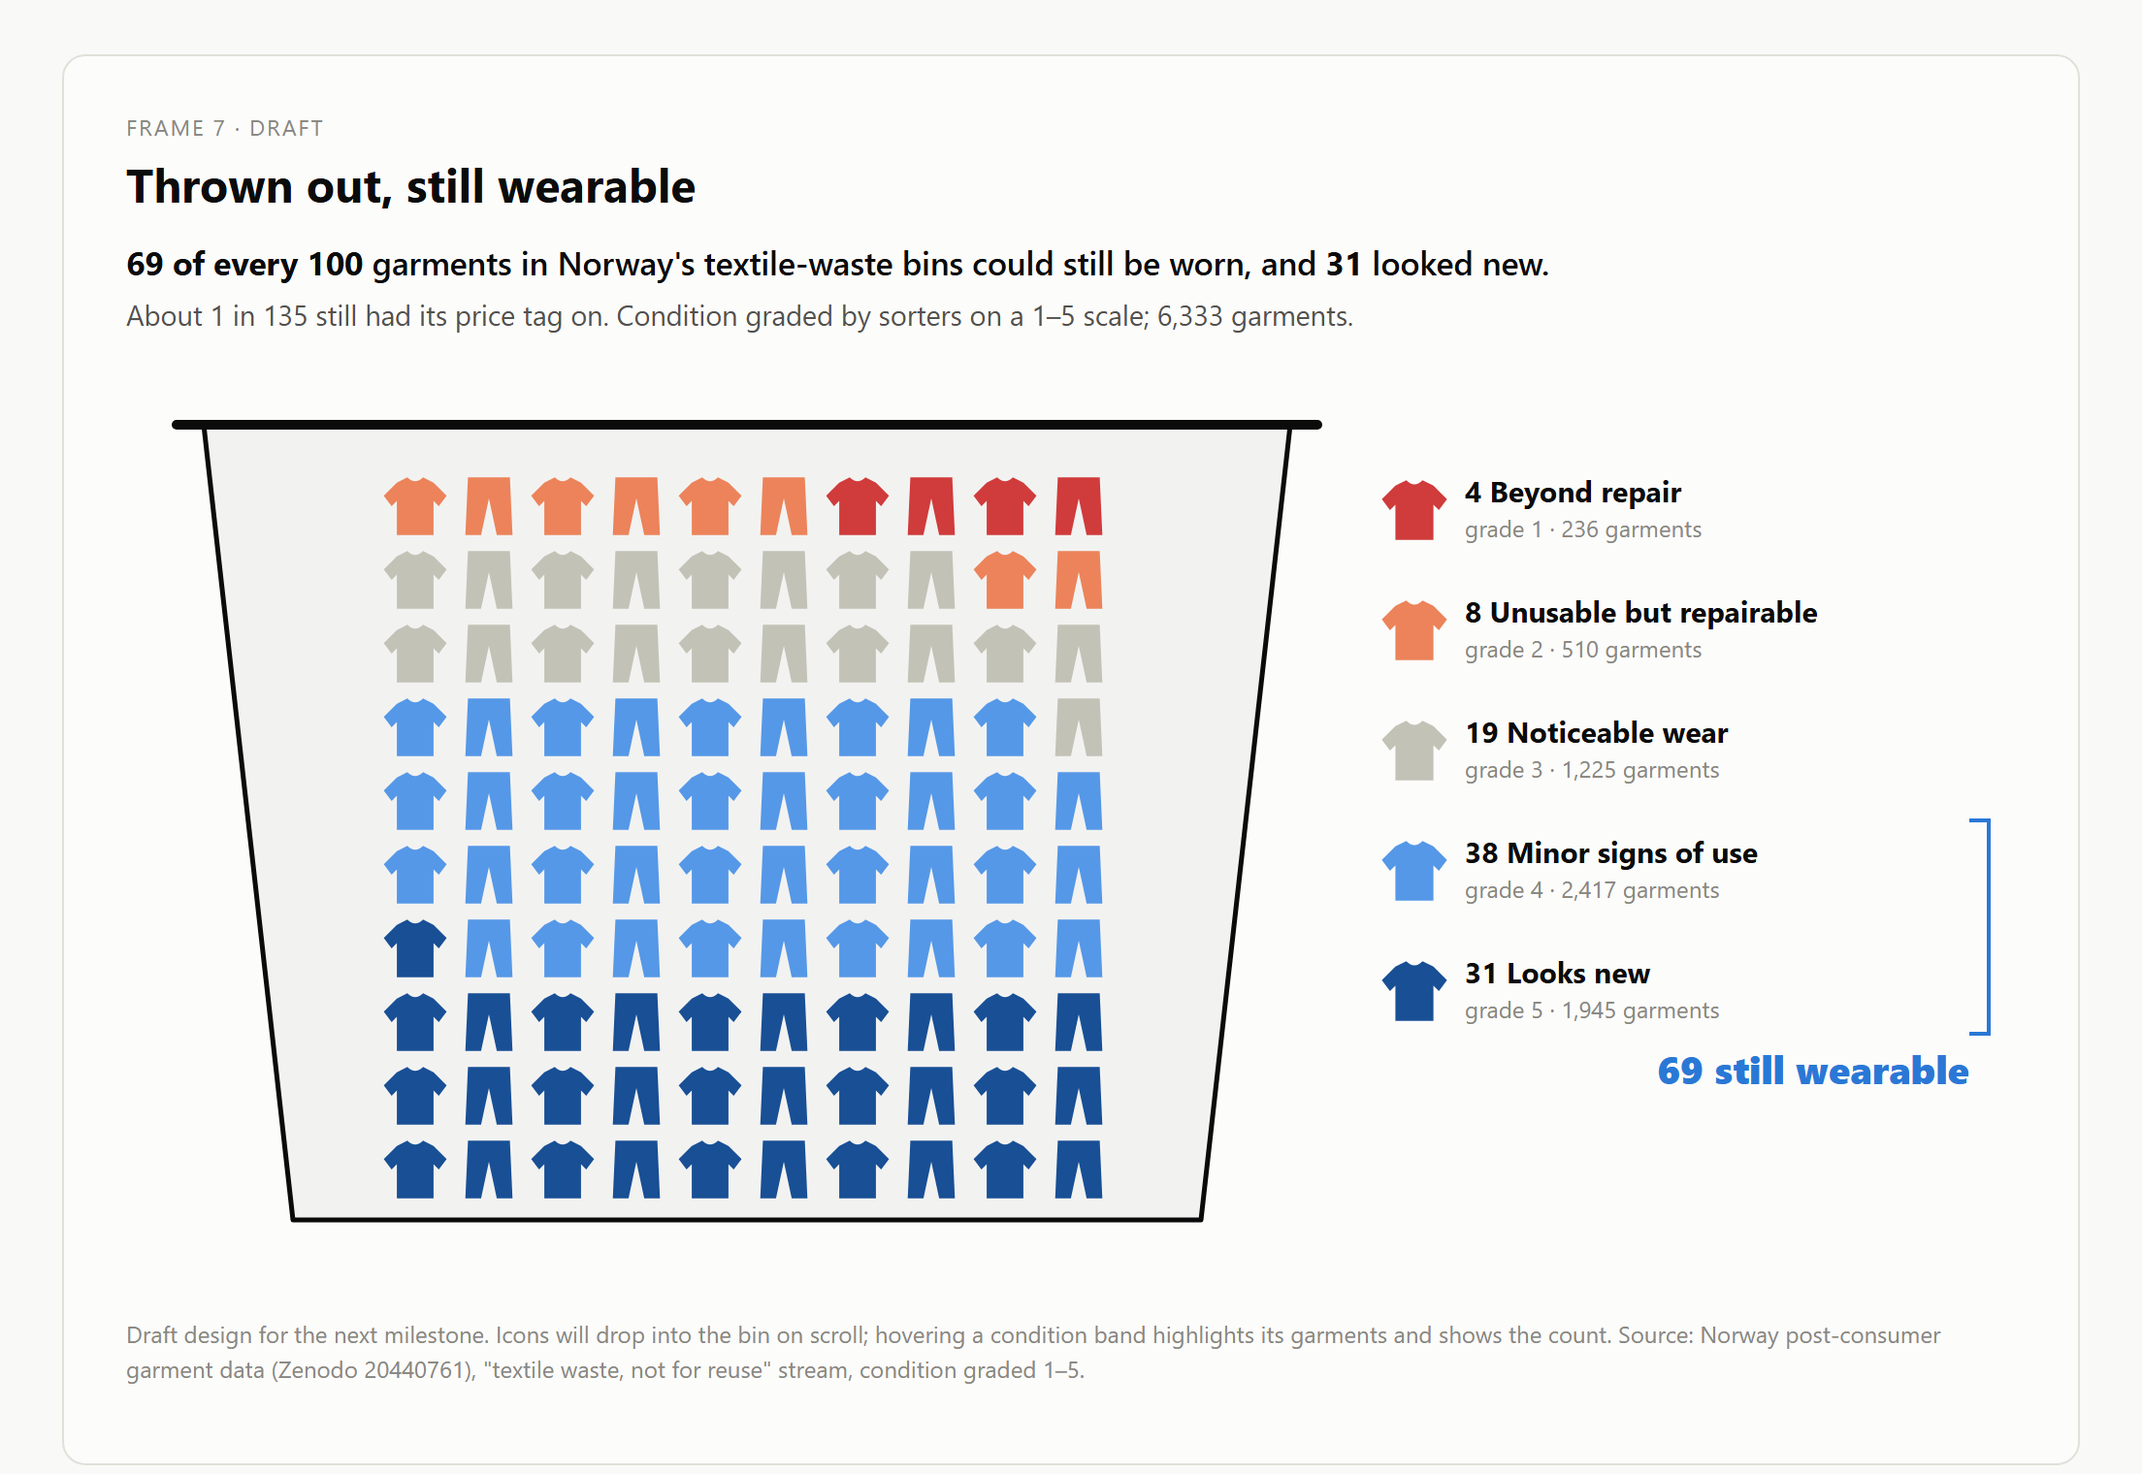
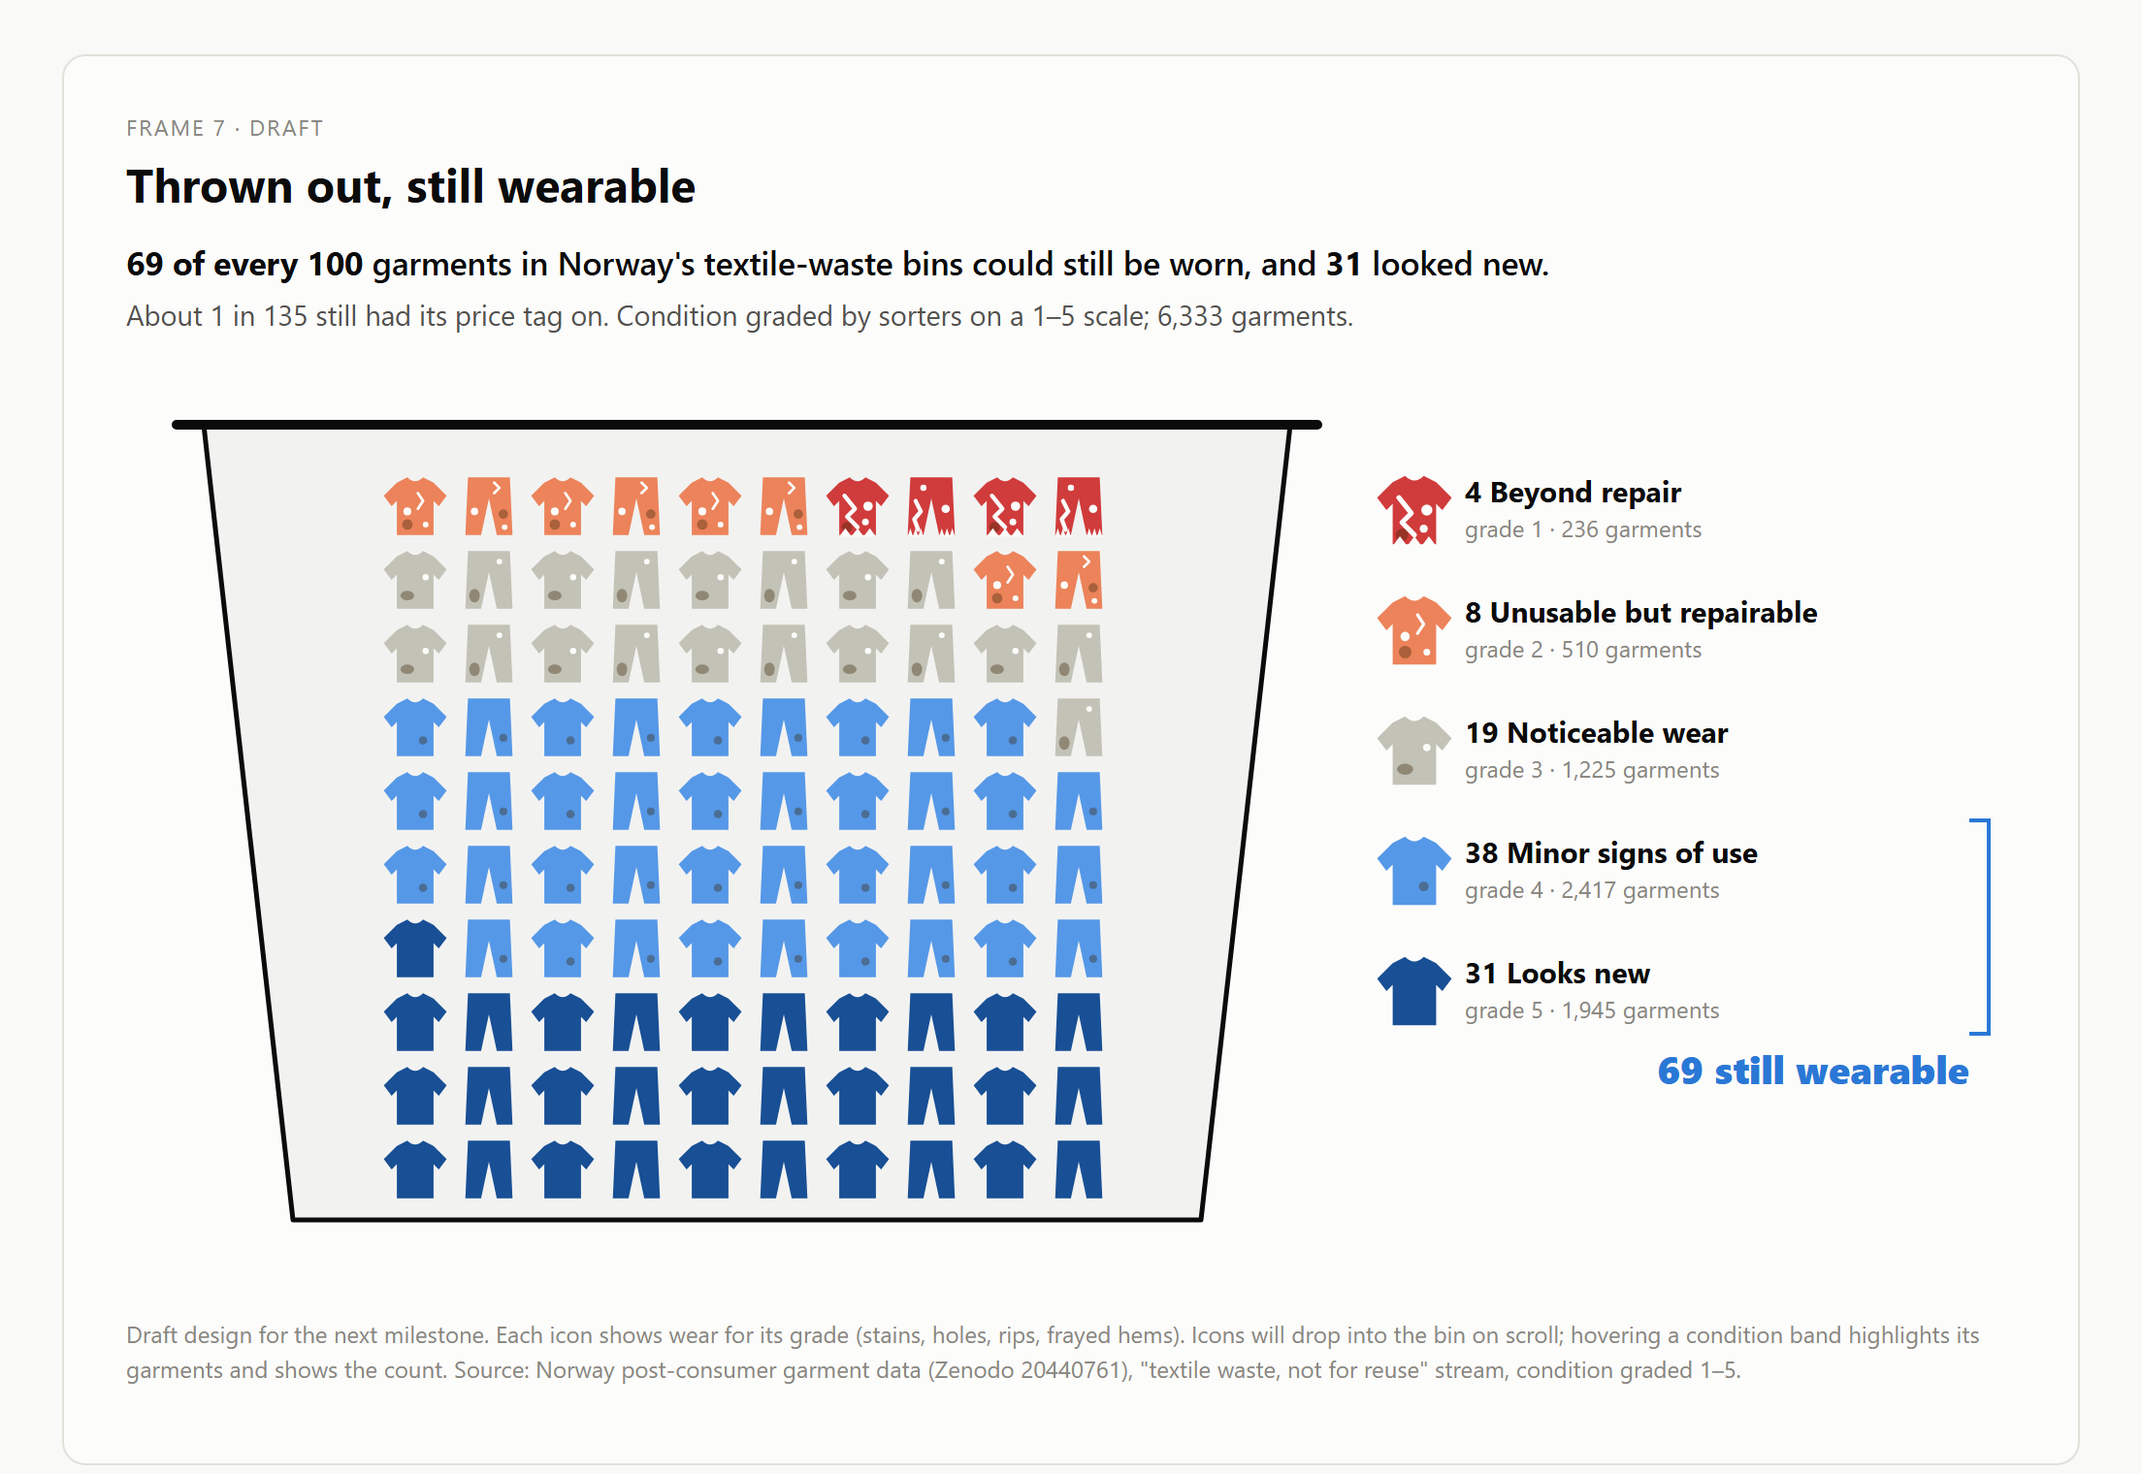
update frame 7 draft

diff --git a/src/lib/components/visuals/BlendDiverge.svelte b/src/lib/components/visuals/BlendDiverge.svelte
@@ -1,6 +1,6 @@
 <!-- Sketch 3 / storyboard frame 3: blends vs pure fibres (diverging arrows + bars). Data: Carbonfact, 1 kg woven fabric.
-Top: one row per fabric, two panels (CO2, water scarcity). Arrow starts at the chosen pure-fibre line (100% cotton or
-100% polyester); length = % change, red = worse, blue = better, gray dot = about the same (within ±2%).
+Top: one row per fabric, two panels (CO2, water scarcity). Arrow starts at the 100% cotton line; length = % change,
+red = worse, blue = better, gray dot = about the same (within ±1%). Figures follow the updated Sketch 3.
 Right column: how common the fibre mix is in the Norway post-consumer data (circle area = garments counted).
 Bottom: absolute footprint per kg of fabric, one bar per fabric; the focused fabric is hatched.
 Hovering any row or bar focuses that fabric everywhere; the tooltip breaks it down by factory step.
@@ -16,12 +16,12 @@ Hovering any row or bar focuses that fabric everywhere; the tooltip breaks it do
   let { data, steps }: Props = $props();
 
   const uid = $props.id();
-  const SAME = 2; // |% change| at or below this reads as "about the same"
+  const SAME = 1; // |% change| at or below this reads as "about the same"
   const bases = [
     { key: "cotton", fabric: "100% cotton" },
     { key: "polyester", fabric: "100% polyester" },
   ] as const;
-  let base = $state<"cotton" | "polyester">("cotton");
+  const base: "cotton" | "polyester" = "cotton"; // Sketch 3 compares with 100% cotton only
 
   type Row = BlendRow & { co2_pct: number; water_pct: number };
   const rows: Row[] = $derived(data.map((d) => ({
@@ -74,15 +74,6 @@ Hovering any row or bar focuses that fabric everywhere; the tooltip breaks it do
   Factory steps only (spinning to dyeing) for 1 kg of woven fabric.
 </p>
 
-<div class="toolbar">
-  <span id="{uid}-cmp">Compare with</span>
-  <div class="seg" role="radiogroup" aria-labelledby="{uid}-cmp">
-    {#each bases as b (b.key)}
-      <button role="radio" aria-checked={base === b.key} class:on={base === b.key} onclick={() => (base = b.key)}>{b.fabric}</button>
-    {/each}
-  </div>
-</div>
-
 <ul class="legend" aria-label="Legend">
   <li><svg width="26" height="10" aria-hidden="true"><line x1="1" x2="18" y1="5" y2="5" class="a-worse" /><path d="M25,5 L17,1 L17,9 Z" class="h-worse" /></svg>Worse than {baseline.fabric}</li>
   <li><svg width="26" height="10" aria-hidden="true"><line x1="25" x2="8" y1="5" y2="5" class="a-better" /><path d="M1,5 L9,1 L9,9 Z" class="h-better" /></svg>Better</li>
@@ -99,7 +90,7 @@ Hovering any row or bar focuses that fabric everywhere; the tooltip breaks it do
     {@const gap = narrow ? 14 : 24}
     {@const shift = narrow ? 12 : 0}
     {@const panelW = (width - labelW - countW - gap * 2) / 2}
-    {@const lim = Math.max(30, Math.ceil((max(rows, (d) => Math.max(Math.abs(d.co2_vs_cotton_pct), Math.abs(d.water_vs_cotton_pct), Math.abs(d.co2_vs_polyester_pct), Math.abs(d.water_vs_polyester_pct))) ?? 10) / 10 + 0.5) * 10)}
+    {@const lim = Math.max(30, Math.ceil((max(rows, (d) => Math.max(Math.abs(d.co2_pct), Math.abs(d.water_pct))) ?? 10) / 10 + 0.5) * 10)}
     {@const x = scaleLinear().domain([-lim, lim]).range([0, panelW])}
     {@const row = scaleBand<string>().domain(others.map((d) => d.fabric)).range([0, height]).paddingInner(0.12)}
     {@const rMax = Math.min(row.bandwidth() / 2 - 4, narrow ? 16 : 24)}
@@ -208,7 +199,7 @@ Hovering any row or bar focuses that fabric everywhere; the tooltip breaks it do
 <p class="note">
   <svg class="swatch" width="14" height="14" aria-hidden="true"><rect width="14" height="14" rx="3" fill="url(#{uid}-hatch)" /></svg>
   Hatched bar = {focus.fabric}{hovered ? "" : " (the biggest footprint; hover any fabric to compare)"}. Dashed line = {baseline.fabric}.
-  Water scarcity weights each litre by how scarce water is where it's used. Source: Carbonfact open LCA database (world average);
+  Water scarcity weights each litre by how scarce water is where it's used. Source: Carbonfact open LCA database (world average), % changes as agreed in Sketch 3;
   Norway counts any cotton/polyester or cotton/elastane mix.
 </p>
 
@@ -249,12 +240,6 @@ Hovering any row or bar focuses that fabric everywhere; the tooltip breaks it do
 </details>
 
 <style>
-  .toolbar { display: flex; align-items: center; gap: 10px; margin: 0 0 12px; font-size: 0.85rem; color: var(--muted); flex-wrap: wrap; }
-  .seg { display: inline-flex; border: 1px solid var(--rule); border-radius: 999px; padding: 2px; background: var(--wash); }
-  .seg button { border: 0; background: transparent; color: var(--muted); font: inherit; padding: 4px 12px; border-radius: 999px; cursor: pointer; }
-  .seg button.on { background: var(--card); color: var(--ink); font-weight: 600; box-shadow: 0 1px 2px rgba(0, 0, 0, 0.12); }
-  .seg button:focus-visible { outline: 2px solid var(--series-1); outline-offset: 1px; }
-
   .legend { display: flex; flex-wrap: wrap; gap: 6px 18px; list-style: none; margin: 0 0 4px; padding: 0; font-size: 0.85rem; color: var(--muted); }
   .legend li { display: flex; align-items: center; gap: 6px; }
   .legend .muted { color: var(--faint); }

diff --git a/drafts/frame7-wearable.html b/drafts/frame7-wearable.html
@@ -2,6 +2,7 @@
 <!-- Draft (not part of the site): storyboard frame 7, "Thrown out, still wearable".
      A bin of 100 garment icons from Norway's textile-waste stream, coloured by condition (diverging: wearable = blue,
      not wearable = red, noticeable wear = neutral), filled from the bottom with the best condition first.
+     Each icon also shows wear for its grade: none (5), a stain (4), stain + hole (3), holes + rip (2), long tear + frayed hem (1).
      Data: public/data/waste_condition.csv + facts.json (Norway post-consumer garments). -->
 <html lang="en" data-theme="light">
 <head>
@@ -16,6 +17,9 @@
     h1 { margin: 2px 0 10px; font-size: 1.5rem; }
     .draft { margin-top: 14px; font-size: 0.75rem; color: var(--faint); }
     svg text { font-family: inherit; }
+    .hole { fill: var(--card); }
+    .stain { fill: rgba(60, 40, 10, 0.38); }
+    .rip { fill: none; stroke: var(--card); stroke-linecap: round; stroke-linejoin: round; }
   </style>
 </head>
 <body>
@@ -25,7 +29,7 @@
     <p class="headline" id="headline"></p>
     <p class="sub" id="sub"></p>
     <svg id="chart" width="976" height="470" role="img"></svg>
-    <p class="draft">Draft design for the next milestone. Icons will drop into the bin on scroll; hovering a condition band highlights its garments and shows the count.
+    <p class="draft">Draft design for the next milestone. Each icon shows wear for its grade (stains, holes, rips, frayed hems). Icons will drop into the bin on scroll; hovering a condition band highlights its garments and shows the count.
       Source: Norway post-consumer garment data (Zenodo 20440761), "textile waste, not for reuse" stream, condition graded 1–5.</p>
   </div>
   <script type="module">
@@ -56,15 +60,34 @@
     const SHIRT = "M-7,-9 L-3,-11 Q0,-8 3,-11 L7,-9 L12,-4 L9,0 L7,-2 L7,11 L-7,11 L-7,-2 L-9,0 L-12,-4 Z";
     const PANTS = "M-8,-11 L8,-11 L9,11 L3,11 L0,-3 L-3,11 L-9,11 Z";
     const cell = 38, cols = 10, left = (bin.x0 + bin.x1) / 2 - (cols - 1) * cell / 2;
-    svg.append("g").selectAll("path").data(order).join("path")
-      .attr("d", (_, i) => (i % 2 ? PANTS : SHIRT))
+    // wear and tear drawn on top of each icon, more damage at lower grades:
+    // 5 none, 4 a small stain, 3 stain + small hole, 2 holes + a rip, 1 long tear, holes and a frayed hem
+    const hole = (x, y, r) => `<circle cx="${x}" cy="${y}" r="${r}" class="hole"/>`;
+    const stain = (x, y, rx, ry = rx) => `<ellipse cx="${x}" cy="${y}" rx="${rx}" ry="${ry}" class="stain"/>`;
+    const rip = (d, w = 1) => `<path d="${d}" class="rip" style="stroke-width:${w}"/>`;
+    const fray = (x0, x1, y = 11) => { let d = `M${x0},${y + 0.6}`; for (let x = x0, k = 0; x <= x1 + 0.01; x += (x1 - x0) / 6, k++) d += ` L${x},${k % 2 ? y - 2.6 : y + 0.6}`; return `<path d="${d} Z" class="hole"/>`; };
+    const WEAR = {
+      shirt: { 5: "", 4: stain(3, 5, 1.6),
+        3: stain(-3, 6, 2.6, 1.8) + hole(4, -1, 1.2),
+        2: stain(-3, 7, 2) + hole(-3, 2, 1.5) + hole(4, 7, 1.1) + rip("M1,-5 L3,-2 L1,1"),
+        1: rip("M-5,-4 L-1,1 L-4,4 L0,8", 1.6) + hole(4, 0, 1.8) + hole(3, 6, 1.3) + stain(-4, 8, 2) + fray(-7, 7) },
+      pants: { 5: "", 4: stain(5.5, 4, 1.5),
+        3: stain(-5.5, 6, 2, 2.6) + hole(4, -7, 1.1),
+        2: stain(5.5, 3, 1.8) + hole(-5.5, 2, 1.4) + hole(6, 8, 1.1) + rip("M2,-9 L4,-7 L2,-5"),
+        1: rip("M-6,-2 L-4,2 L-6.5,5 L-5,9", 1.6) + hole(5.5, 1, 1.6) + hole(-3, -7, 1.2) + fray(-9, -3) + fray(3, 9) },
+    };
+    svg.append("g").selectAll("g").data(order).join("g")
       .attr("transform", (_, i) => `translate(${left + (i % cols) * cell},${bin.y1 - 26 - Math.floor(i / cols) * cell}) scale(1.35)`)
-      .attr("fill", (g) => color[g]);
+      .each(function (g, i) {
+        const kind = i % 2 ? "pants" : "shirt";
+        d3.select(this).html(`<path d="${kind === "pants" ? PANTS : SHIRT}" fill="${color[g]}"/>${WEAR[kind][g]}`);
+      });
 
     // legend: one row per grade, top = worst, with per-100 counts
     const lg = svg.append("g").attr("transform", "translate(650,70)");
     const item = lg.selectAll("g").data([...cats].reverse().sort((a, b) => a.grade - b.grade)).join("g").attr("transform", (_, i) => `translate(0,${i * 62})`);
-    item.append("path").attr("d", SHIRT).attr("transform", "translate(14,4) scale(1.4)").attr("fill", (d) => color[d.grade]);
+    item.append("g").attr("transform", "translate(14,4) scale(1.6)")
+      .html((d) => `<path d="${SHIRT}" fill="${color[d.grade]}"/>${WEAR.shirt[d.grade]}`);
     item.append("text").attr("x", 40).attr("y", 0).style("font-weight", 700).style("font-size", "15px").text((d) => `${d.n}  ${d.label}`);
     item.append("text").attr("x", 40).attr("y", 18).attr("class", "axis-label").text((d) => `grade ${d.grade} · ${d3.format(",")(d.count)} garments`);
     // bracket over the wearable grades

diff --git a/scripts/pipeline/build_data.py b/scripts/pipeline/build_data.py
@@ -119,12 +119,33 @@ for name, mix in FABRICS:
     for step, (g, w) in steps:
         step_rows.append({"fabric": name, "step": step, "co2_kg": round(g, 3), "water_m3": round(w, 3)})
 blends = pd.DataFrame(blend_rows)
+steps_df = pd.DataFrame(step_rows)
+
+# Frame 3 uses the group's agreed figures from the updated Sketch 3 (% change vs 100% cotton, CO2 and water), not the
+# full-chain result above. 100% cotton keeps its Carbonfact totals; the other fabrics are scaled from it, and each
+# fabric's factory steps are scaled by the same factor so the tooltip breakdown still adds up to the total.
+SKETCH3_VS_COTTON = {  # fabric: (CO2 %, water-scarcity %)
+    "100% cotton": (0, 0),
+    "100% polyester": (-7, -12),
+    "65/35 poly-cotton": (31, 22),
+    "95/5 stretch cotton": (1, 1),
+}
+cot = blends.set_index("fabric").loc["100% cotton"]
+for name, (dc, dw) in SKETCH3_VS_COTTON.items():
+    i = blends.fabric == name
+    kc, kw = cot.co2_kg * (1 + dc / 100) / blends.loc[i, "co2_kg"].iloc[0], cot.water_m3 * (1 + dw / 100) / blends.loc[i, "water_m3"].iloc[0]
+    blends.loc[i, "co2_kg"] = round(cot.co2_kg * (1 + dc / 100), 3)
+    blends.loc[i, "water_m3"] = round(cot.water_m3 * (1 + dw / 100), 3)
+    j = steps_df.fabric == name
+    steps_df.loc[j, "co2_kg"] = (steps_df.loc[j, "co2_kg"] * kc).round(3)
+    steps_df.loc[j, "water_m3"] = (steps_df.loc[j, "water_m3"] * kw).round(3)
+
 for base, col in (("100% cotton", "cotton"), ("100% polyester", "polyester")):
     b = blends.set_index("fabric").loc[base]
     blends[f"co2_vs_{col}_pct"] = ((blends.co2_kg / b.co2_kg - 1) * 100).round(1)
     blends[f"water_vs_{col}_pct"] = ((blends.water_m3 / b.water_m3 - 1) * 100).round(1)
 write("blends.csv", blends)
-write("blend_steps.csv", pd.DataFrame(step_rows))
+write("blend_steps.csv", steps_df)
 facts["norway_garments"] = len(NOR)
 facts["norway_with_fibre_label"] = int((NOR["fibres"].map(len) > 0).sum())
 facts["norway_blend_share"] = round(float((NOR["fibres"].map(len) > 1).sum() / (NOR["fibres"].map(len) > 0).sum()), 3)

diff --git a/public/data/README.md b/public/data/README.md
@@ -21,7 +21,7 @@ python -I scripts/pipeline/build_data.py data/raw public/data
 
 | File | Used by | Columns | How it is made |
 | --- | --- | --- | --- |
-| `blends.csv` | Frame 3 (BlendDiverge) | `fabric, co2_kg, water_m3, n_norway, co2_vs_cotton_pct, water_vs_cotton_pct, co2_vs_polyester_pct, water_vs_polyester_pct` | Same factory chain for every fabric, per 1 kg woven fabric: ring spinning (share-weighted; elastane is dry-spun) → sizing → air-jet weaving → desizing → one dye bath per fibre family with ≥10% share (reactive for cotton, disperse for polyester) → heat-setting if any synthetic. `n_norway` = Norway garments whose shell fabric is that fibre mix (any cotton/polyester or cotton/elastane ratio) |
+| `blends.csv` | Frame 3 (BlendDiverge; % changes set to Sketch 3, see notes) | `fabric, co2_kg, water_m3, n_norway, co2_vs_cotton_pct, water_vs_cotton_pct, co2_vs_polyester_pct, water_vs_polyester_pct` | Same factory chain for every fabric, per 1 kg woven fabric: ring spinning (share-weighted; elastane is dry-spun) → sizing → air-jet weaving → desizing → one dye bath per fibre family with ≥10% share (reactive for cotton, disperse for polyester) → heat-setting if any synthetic. `n_norway` = Norway garments whose shell fabric is that fibre mix (any cotton/polyester or cotton/elastane ratio) |
 | `blend_steps.csv` | Frame 3 tooltip | `fabric, step, co2_kg, water_m3` | The steps above |
 | `tshirt_stages.csv` | Frame 2 draft | `material, stage, co2_kg, water_m3` | Knitted T-shirt per kg: spinning, circular knitting, dyeing, generic T-shirt assembly ("sewing") |
 | `growth.csv` | Frame 4 (GrowthLines) | `series, year, value, unit, index, source` | Kaggle rows for the three series; `index` = value / first year × 100 |
@@ -34,8 +34,11 @@ python -I scripts/pipeline/build_data.py data/raw public/data
 ## Notes and caveats
 
 - Carbonfact values are factory steps only (no fibre farming, transport, use or end of life) and use a global energy mix.
-  Our blend chain gives +23% CO₂ for 65/35 poly-cotton vs 100% cotton; the process book's hand calculation (31%) used
-  only spinning and dyeing. Material losses (`Input required (kg)`) are not applied.
+  **Frame 3 uses the group's agreed figures from the updated Sketch 3**, vs 100% cotton: polyester −7% CO₂ / −12% water,
+  65/35 poly-cotton +31% / +22%, 95/5 stretch cotton +1% / +1% (`SKETCH3_VS_COTTON` in `build_data.py`). 100% cotton
+  keeps its Carbonfact totals, the other fabrics are scaled from it, and their steps in `blend_steps.csv` are scaled by
+  the same factor. The unscaled full chain gives +23% / +17% for poly-cotton and 0% / −9% for polyester.
+  Material losses (`Input required (kg)`) are not applied.
 - The Kaggle file collects figures from named sources (McKinsey, EPA, WWF); the series have different years, so the
   chart only draws points where a figure exists.
 - Recycling-funnel shares depend on the rule set above, and the process book used a slightly different one (19% vs our 22%).
